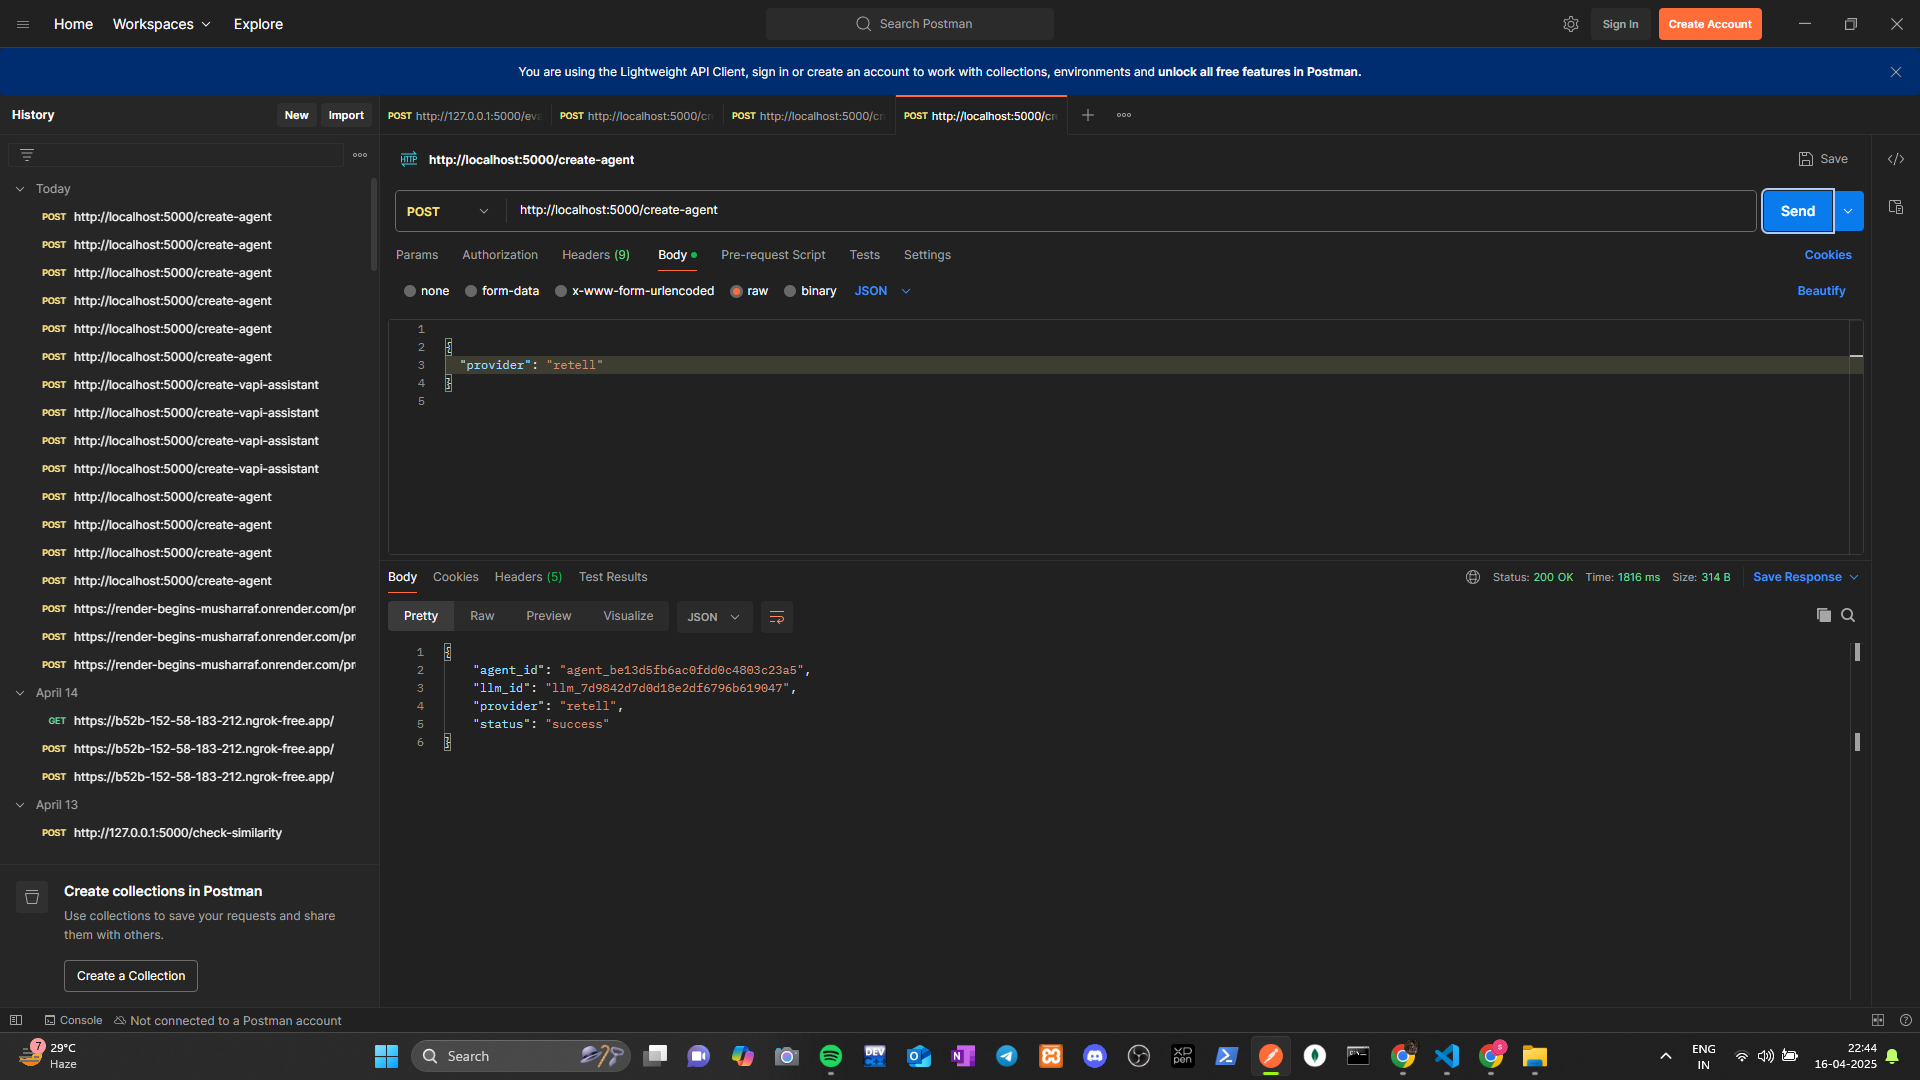
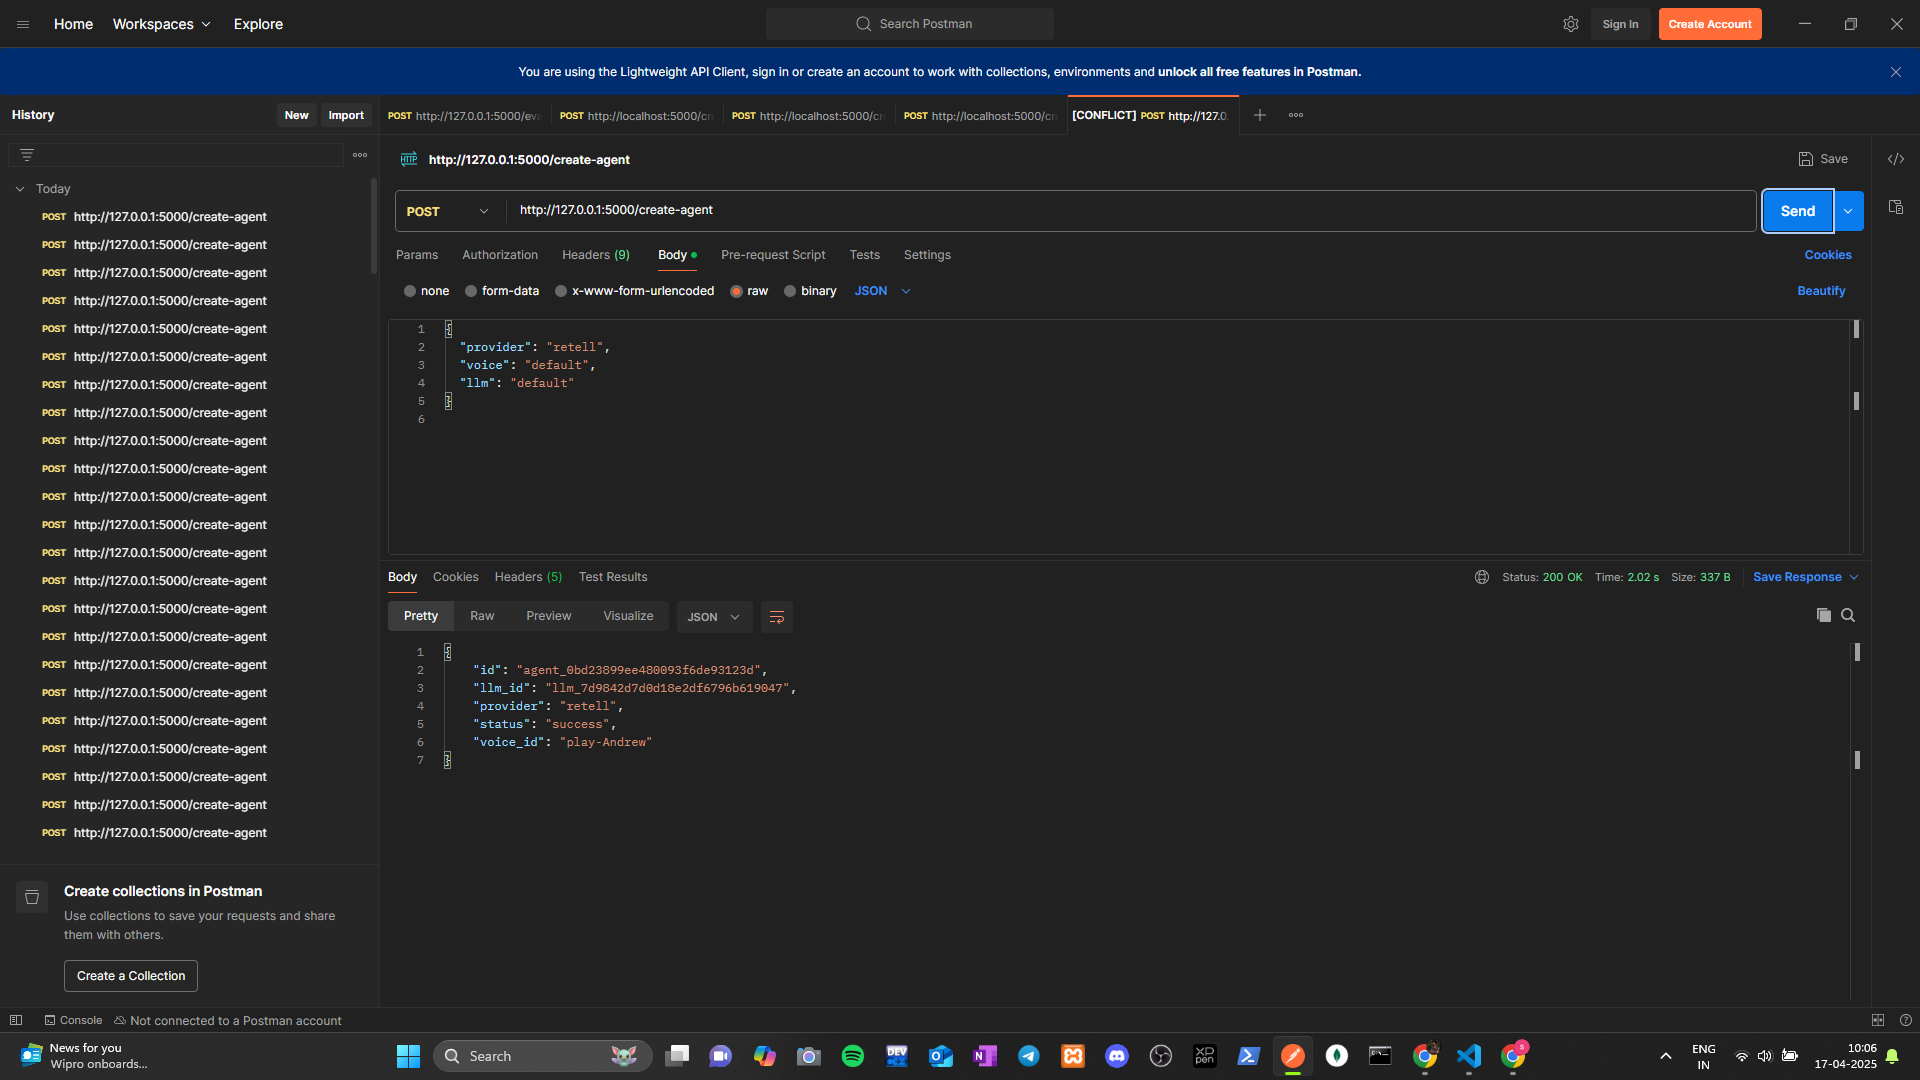
fine modifications

diff --git a/app.py b/app.py
@@ -4,65 +4,147 @@ from retell import Retell
 from dotenv import load_dotenv
 import os
 
+# Initialize Flask app
 app = Flask(__name__)
 
-
+# Load environment variables from .env file
 load_dotenv()
 
+# Load API keys and other required environment variables
 RETELL_API_KEY = os.getenv("RETELL_API_KEY")
 RETELL_VOICE_ID = os.getenv("RETELL_VOICE_ID")
 RETELL_LLM_ID = os.getenv("RETELL_LLM_ID")
 VAPI_API_KEY = os.getenv("VAPI_API_KEY")
+VAPI_VOICE_ID = os.getenv("VAPI_VOICE_ID")  
 
+# Voice mapping configuration
+# Maps standardized voice names to their provider-specific IDs
+VOICE_MAP = {
+    "default": {
+        "retell": RETELL_VOICE_ID,
+        "vapi": "default"
+    },
+    "elliot": {
+        "vapi": "elliot-rime-ai"
+    }
+}
+
+# LLM mapping configuration (currently only for Retell)
+LLM_MAP = {
+    "default": {
+        "retell": RETELL_LLM_ID
+    }
+}
 
 @app.route('/create-agent', methods=['POST'])
 def create_agent():
+    """
+    Unified endpoint to create an AI agent using either Vapi or Retell
+    based on the 'provider' field passed in the request body.
+    """
     try:
         data = request.json
         provider = data.get("provider")
+        voice_key = data.get("voice", "default")
+        llm_key = data.get("llm", "default")
 
+        # Validate provider input
+        if provider not in ["retell", "vapi"]:
+            return jsonify({
+                "status": "error",
+                "message": "Invalid provider. Choose 'retell' or 'vapi'."
+            }), 400
+
+        # Validate requested voice
+        if voice_key not in VOICE_MAP:
+            return jsonify({
+                "status": "error",
+                "message": f"Voice key '{voice_key}' is not supported. Available voices: {list(VOICE_MAP.keys())}"
+            }), 400
+
+        if provider not in VOICE_MAP[voice_key]:
+            return jsonify({
+                "status": "error",
+                "message": f"Voice key '{voice_key}' is not supported for provider '{provider}'. Available voices for {provider}: {list(VOICE_MAP[voice_key].keys())}"
+            }), 400
+
+        # Validate LLM (only applicable for Retell)
+        if provider == "retell" and (llm_key not in LLM_MAP or provider not in LLM_MAP[llm_key]):
+            return jsonify({
+                "status": "error",
+                "message": f"LLM key '{llm_key}' is not supported for provider '{provider}'. Available LLMs: {list(LLM_MAP.keys())}"
+            }), 400
+
+        # Fetch resolved voice and LLM IDs from the mapping
+        voice_id = VOICE_MAP[voice_key][provider]
+        llm_id = LLM_MAP.get(llm_key, {}).get(provider)
+
+        # RETELL implementation
         if provider == "retell":
-            # Retell agent creation
+            # Initialize Retell client with API key
             client = Retell(api_key=RETELL_API_KEY)
+
+            # Create agent with voice and LLM info
             agent_response = client.agent.create(
                 response_engine={
-                    "llm_id": RETELL_LLM_ID,
-                    "type": "retell-llm",
+                    "llm_id": llm_id,
+                    "type": "retell-llm"
                 },
-                voice_id=RETELL_VOICE_ID,
+                voice_id=voice_id,
             )
 
             return jsonify({
                 "status": "success",
                 "provider": "retell",
-                "llm_id": RETELL_LLM_ID,
-                "agent_id": agent_response.agent_id
+                "id": agent_response.agent_id,
+                "voice_id": voice_id,
+                "llm_id": llm_id
             })
 
+        # VAPI implementation
         elif provider == "vapi":
-            # Vapi assistant creation
+            # Prepare headers for Vapi request
             headers = {
                 "Authorization": f"Bearer {VAPI_API_KEY}",
                 "Content-Type": "application/json"
             }
-            payload = {}  # Add custom payload if needed
+
+            # Prepare payload to create Vapi assistant
+            payload = {
+                "name": "My Assistant",       # You may make this dynamic later
+                "voice": voice_id,            # Voice ID as per user input mapping
+                "model": "gpt-4"              # Hardcoded model for simplicity
+            }
+
+            # Make request to Vapi API
             response = requests.post("https://api.vapi.ai/assistant", headers=headers, json=payload)
-            response.raise_for_status()
+            response.raise_for_status()  # Raise exception for HTTP errors
             result = response.json()
 
             return jsonify({
                 "status": "success",
                 "provider": "vapi",
-                "assistant_id": result.get("id"),
+                "id": result.get("id"),
+                "voice_id": voice_id,
                 "details": result
             })
 
-        else:
-            return jsonify({"status": "error", "message": "Invalid provider. Choose 'retell' or 'vapi'."}), 400
+    # Catch specific HTTP errors from external API calls
+    except requests.exceptions.HTTPError as http_err:
+        return jsonify({
+            "status": "error",
+            "message": f"HTTP error occurred: {http_err}",
+            "details": response.text
+        }), response.status_code
 
+    # Generic error handler
     except Exception as e:
-        return jsonify({"status": "error", "message": str(e)}), 500
+        return jsonify({
+            "status": "error",
+            "message": str(e)
+        }), 500
 
 
+# Entry point to run the Flask app
 if __name__ == '__main__':
     app.run(debug=True)
